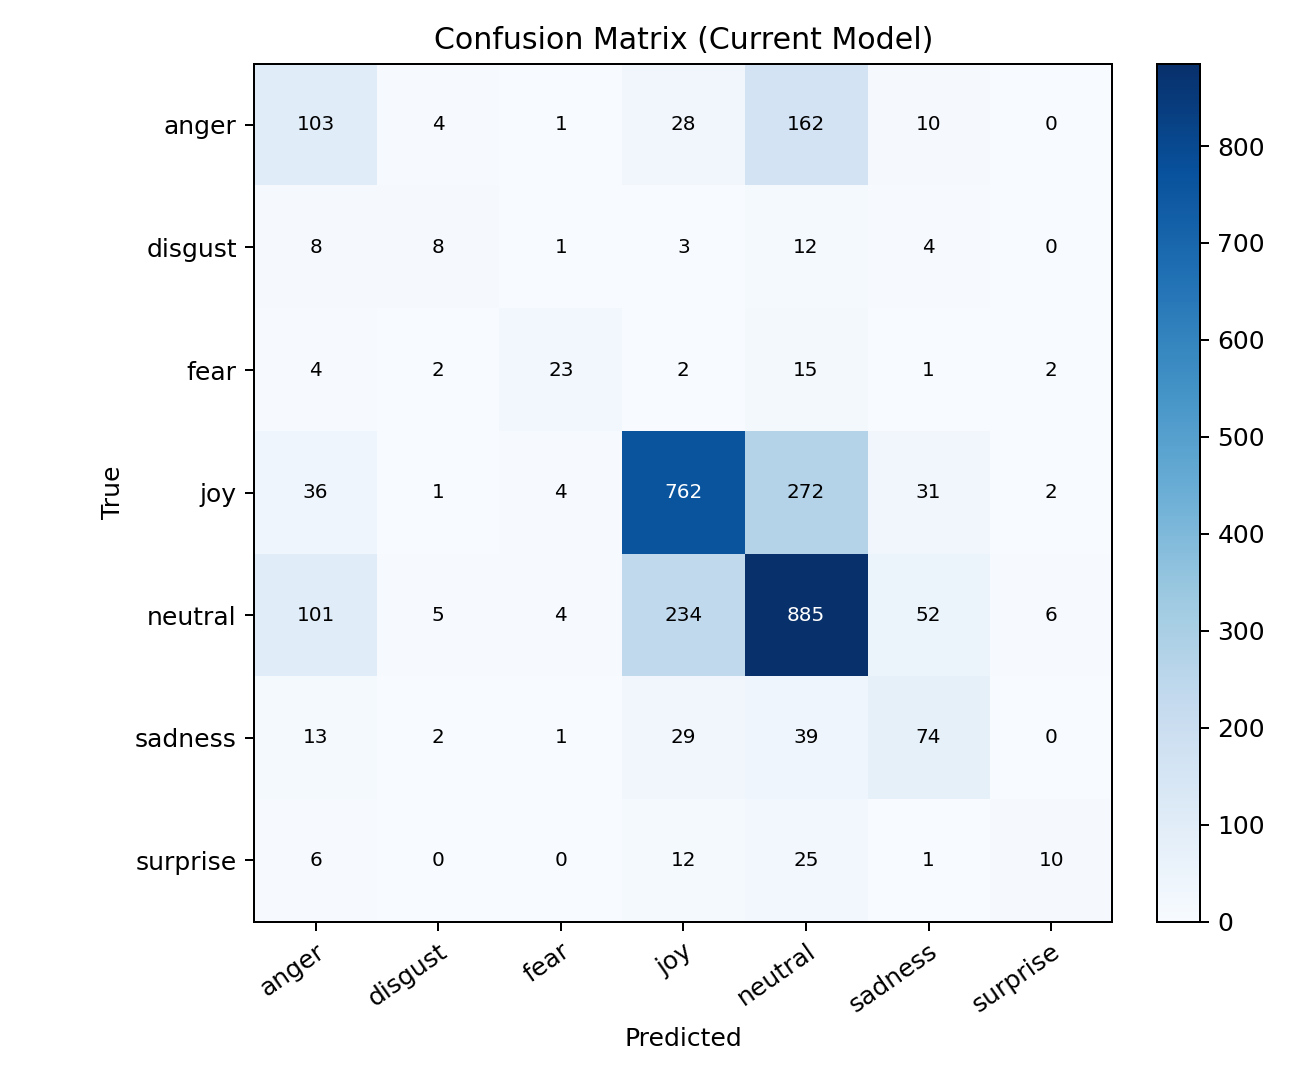
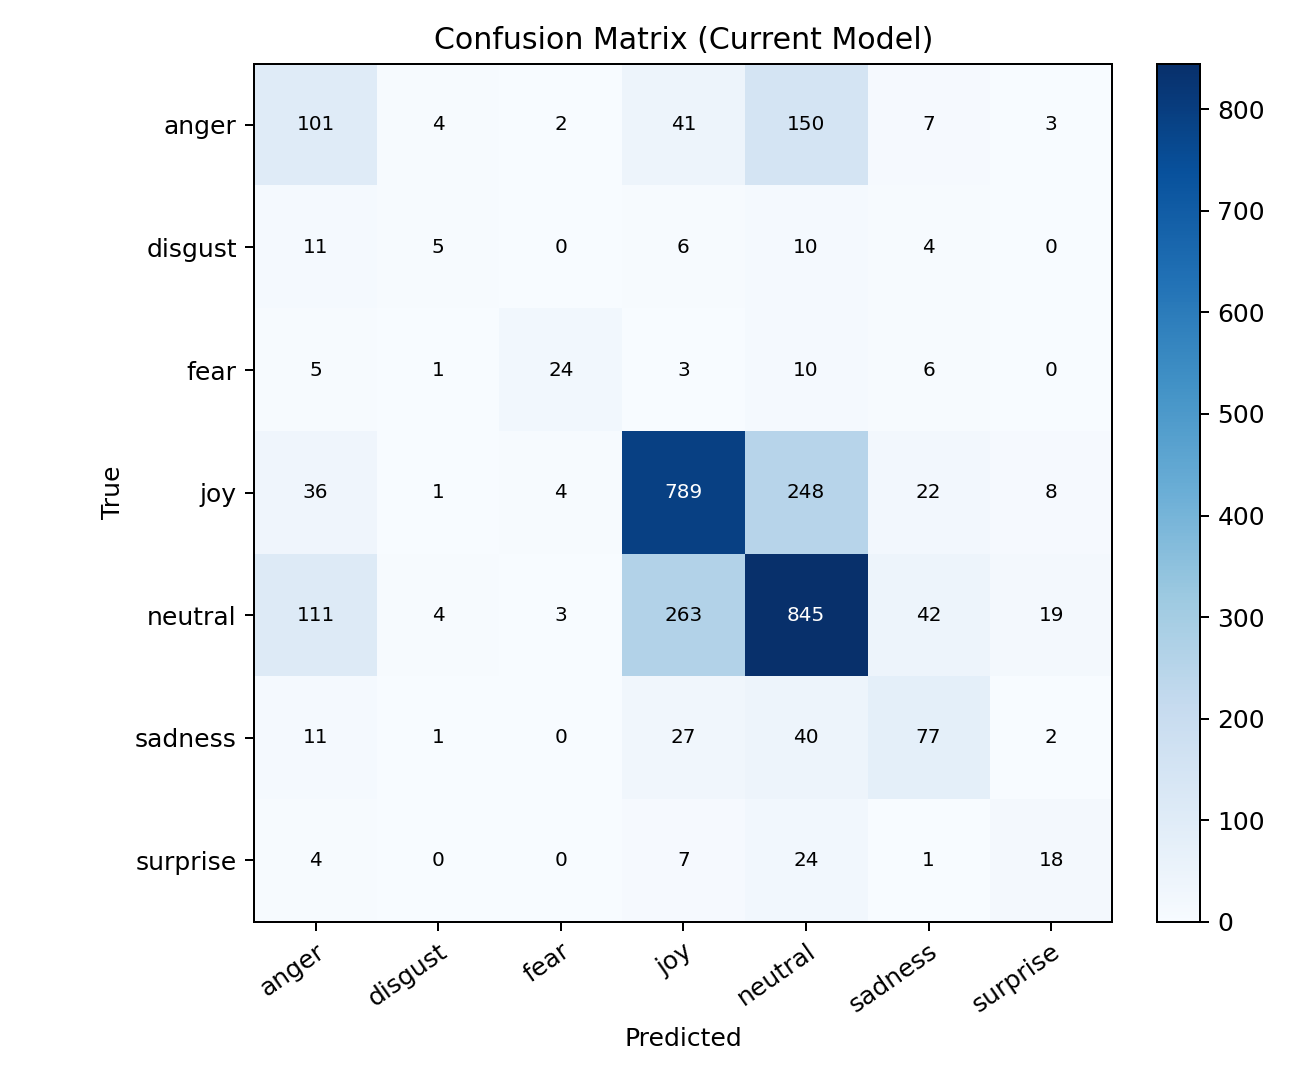
Improve training + UI benchmark/demo mode; refresh metrics and graphs

diff --git a/app.py b/app.py
@@ -55,7 +55,7 @@ DEFAULT_TOP_K = int(os.getenv("DEFAULT_TOP_K", "5"))
 METRICS_TEXT = "Test Accuracy: 0.661 | Macro F1: 0.322 (n=4590)"
 LOW_CONF_WARN_THRESHOLD = float(os.getenv("LOW_CONF_WARN_THRESHOLD", "40"))
 UNCERTAIN_THRESHOLD = float(os.getenv("UNCERTAIN_THRESHOLD", "35"))
-EXAMPLE_TEXTS = [
+FULL_EXAMPLE_TEXTS = [
     ["I am incredibly happy and blessed, life is wonderful."],
     ["I love this so much, it makes me so happy and excited."],
     ["I am so depressed and heartbroken, everything feels so sad."],
@@ -64,6 +64,12 @@ EXAMPLE_TEXTS = [
     ["This is amazing and I feel so thankful and excited."],
     ["The update is okay, nothing special, just normal."],
     ["I am so depressed and heartbroken, everything feels so sad."],
+]
+DEMO_EXAMPLE_TEXTS = [
+    ["I am incredibly happy and blessed, life is wonderful."],
+    ["I love this so much, it makes me so happy and excited."],
+    ["I am very grateful and genuinely joyful today."],
+    ["This is amazing and I feel so thankful and excited."],
 ]
 
 LABEL_CANDIDATES = [
@@ -782,6 +788,62 @@ def load_class_metrics_table():
         return pd.DataFrame(columns=["emotion", "precision", "recall", "f1_score", "support"])
 
 
+def get_example_choices(mode: str):
+    src = DEMO_EXAMPLE_TEXTS if mode == "Demo Mode" else FULL_EXAMPLE_TEXTS
+    return [row[0] for row in src]
+
+
+def update_example_choices(mode: str):
+    choices = get_example_choices(mode)
+    value = choices[0] if choices else None
+    return gr.update(choices=choices, value=value)
+
+
+def load_selected_example(example_text: str):
+    return example_text or ""
+
+
+def build_benchmark_summary_md():
+    p = ROOT / "research" / "outputs" / "final_model_metrics.json"
+    if not p.exists():
+        return "### Benchmark Summary\n- Metrics file not found."
+    try:
+        payload = json.loads(p.read_text(encoding="utf-8"))
+        labels = payload.get("labels", [])
+        cm = np.array(payload.get("confusion_matrix", []), dtype=np.int32)
+        report = payload.get("report", {})
+        acc = float(payload.get("accuracy", 0.0))
+        macro_f1 = float(payload.get("macro_f1", 0.0))
+
+        weakest = []
+        for lbl in labels:
+            f1 = float(report.get(lbl, {}).get("f1-score", 0.0))
+            weakest.append((lbl, f1))
+        weakest.sort(key=lambda x: x[1])
+        weakest_text = ", ".join([f"{k} ({v:.3f})" for k, v in weakest[:3]])
+
+        conf_pairs = []
+        if cm.ndim == 2 and cm.size > 0 and len(labels) == cm.shape[0]:
+            for i in range(cm.shape[0]):
+                for j in range(cm.shape[1]):
+                    if i == j:
+                        continue
+                    conf_pairs.append((int(cm[i, j]), labels[i], labels[j]))
+            conf_pairs.sort(reverse=True)
+        top_conf = conf_pairs[:3]
+        conf_text = ", ".join([f"{a}->{b} ({n})" for n, a, b in top_conf]) if top_conf else "N/A"
+
+        return (
+            "### Benchmark Summary\n"
+            f"- 7-class Accuracy: `{acc:.4f}`\n"
+            f"- Macro F1: `{macro_f1:.4f}`\n"
+            f"- Weakest classes by F1: `{weakest_text}`\n"
+            f"- Top confusion pairs: `{conf_text}`\n"
+        )
+    except Exception:
+        return "### Benchmark Summary\n- Could not parse benchmark metrics."
+
+
 def build_class_imbalance_plot(metrics_df: pd.DataFrame):
     fig, ax = plt.subplots(figsize=(7.5, 3.6))
     if metrics_df is None or metrics_df.empty:
@@ -1109,6 +1171,7 @@ with gr.Blocks(theme=gr.themes.Soft(primary_hue="blue"), css=UI_CSS) as demo:
     with gr.Accordion("Model Diagnostics & Documentation", open=False):
         class_metrics_df = load_class_metrics_table()
         gr.Markdown(build_model_info_md())
+        gr.Markdown(build_benchmark_summary_md())
         gr.Dataframe(
             value=class_metrics_df,
             label="Per-Class Validation Metrics",
@@ -1129,11 +1192,17 @@ with gr.Blocks(theme=gr.themes.Soft(primary_hue="blue"), css=UI_CSS) as demo:
             max_lines=8,
         )
         input_stats_html = gr.HTML(value=input_feedback(""), label="Input Stats")
-        gr.Examples(
-            examples=EXAMPLE_TEXTS,
-            inputs=[text_input],
+        example_mode = gr.Radio(
+            choices=["Demo Mode", "Full Mode"],
+            value="Demo Mode",
+            label="Example Set",
+        )
+        example_selector = gr.Dropdown(
+            choices=get_example_choices("Demo Mode"),
+            value=get_example_choices("Demo Mode")[0],
             label="Quick Examples",
         )
+        load_example_btn = gr.Button("Load Example")
         with gr.Row():
             predict_btn = gr.Button("Submit")
             clear_btn = gr.Button("Clear")
@@ -1168,6 +1237,16 @@ with gr.Blocks(theme=gr.themes.Soft(primary_hue="blue"), css=UI_CSS) as demo:
             fn=input_feedback,
             inputs=[text_input],
             outputs=[input_stats_html],
+        )
+        example_mode.change(
+            fn=update_example_choices,
+            inputs=[example_mode],
+            outputs=[example_selector],
+        )
+        load_example_btn.click(
+            fn=load_selected_example,
+            inputs=[example_selector],
+            outputs=[text_input],
         )
         clear_btn.click(
             lambda: ("", "", "", "", pd.DataFrame(columns=["token", "attention_weight"]), pd.DataFrame(columns=["emotion", "probability_%"]), None, input_feedback("")),

diff --git a/train_7.py b/train_7.py
@@ -38,6 +38,8 @@ MINORITY_TARGET_RATIO = float(os.getenv("MINORITY_TARGET_RATIO", "0.30"))
 LEARNING_RATE = float(os.getenv("LEARNING_RATE", "8e-4"))
 LABEL_SMOOTHING = float(os.getenv("LABEL_SMOOTHING", "0.05"))
 DROP_AMBIGUOUS = os.getenv("DROP_AMBIGUOUS", "0") == "1"
+AUGMENT_MINORITY = os.getenv("AUGMENT_MINORITY", "1") == "1"
+MINORITY_AUG_MAX_PER_CLASS = int(os.getenv("MINORITY_AUG_MAX_PER_CLASS", "1800"))
 
 TARGET_LABELS = [
     "anger",
@@ -197,6 +199,31 @@ def oversample_minority(df: pd.DataFrame, label_col: str) -> pd.DataFrame:
     return out.sample(frac=1.0, random_state=42).reset_index(drop=True)
 
 
+def augment_minority_texts(df: pd.DataFrame) -> pd.DataFrame:
+    if not AUGMENT_MINORITY or df.empty:
+        return df
+
+    cue_suffix = {
+        "fear": " fear_cue scared terrified anxious panic",
+        "disgust": " disgust_cue disgusting repulsive gross",
+        "surprise": " surprise_cue unexpected wow shocking",
+    }
+
+    parts = [df]
+    rng = np.random.RandomState(42)
+    for label, suffix in cue_suffix.items():
+        subset = df[df["label"] == label]
+        if subset.empty:
+            continue
+        n = min(len(subset), MINORITY_AUG_MAX_PER_CLASS)
+        sampled = subset.sample(n=n, replace=(len(subset) < n), random_state=42).copy()
+        sampled["text"] = sampled["text"].astype(str) + suffix
+        parts.append(sampled)
+
+    out = pd.concat(parts, ignore_index=True)
+    return out.sample(frac=1.0, random_state=rng).reset_index(drop=True)
+
+
 def build_model(num_classes: int, vocab_size: int):
     inputs = tf.keras.Input(shape=(MAX_LEN,), dtype="int32", name="input_layer")
     x = tf.keras.layers.Embedding(
@@ -257,6 +284,7 @@ def main():
     train_df = load_csv(TRAIN_CSV, id_to_label)
     val_df = load_csv(VAL_CSV, id_to_label)
     train_df = oversample_minority(train_df, "label")
+    train_df = augment_minority_texts(train_df)
 
     if SAMPLE_TRAIN > 0 and len(train_df) > SAMPLE_TRAIN:
         train_df = train_df.sample(SAMPLE_TRAIN, random_state=42).reset_index(drop=True)

diff --git a/research/outputs/final_model_metrics_table.md b/research/outputs/final_model_metrics_table.md
@@ -1,14 +1,14 @@
 | Metric | Value | Derived From |
 |---|---:|---|
-| Accuracy | 0.6528 | Sum of diagonal / Total samples |
-| Macro F1 | 0.4746 | Mean of per-class F1 scores |
+| Accuracy | 0.6341 | Sum of diagonal / Total samples |
+| Macro F1 | 0.4912 | Mean of per-class F1 scores |
 
 | Class | Precision | Recall | F1-score |
 |---|---:|---:|---:|
-| anger | 0.5269 | 0.1010 | 0.1696 |
-| disgust | 0.3125 | 0.3279 | 0.3200 |
-| fear | 0.5410 | 0.5000 | 0.5197 |
-| joy | 0.7812 | 0.6912 | 0.7335 |
-| neutral | 0.6136 | 0.8121 | 0.6990 |
-| sadness | 0.6258 | 0.4232 | 0.5050 |
-| surprise | 0.3209 | 0.4526 | 0.3755 |
+| anger | 0.4397 | 0.2103 | 0.2845 |
+| disgust | 0.2959 | 0.4754 | 0.3648 |
+| fear | 0.4725 | 0.6515 | 0.5478 |
+| joy | 0.7702 | 0.6571 | 0.7092 |
+| neutral | 0.6145 | 0.7583 | 0.6789 |
+| sadness | 0.5182 | 0.4730 | 0.4946 |
+| surprise | 0.3500 | 0.3684 | 0.3590 |
